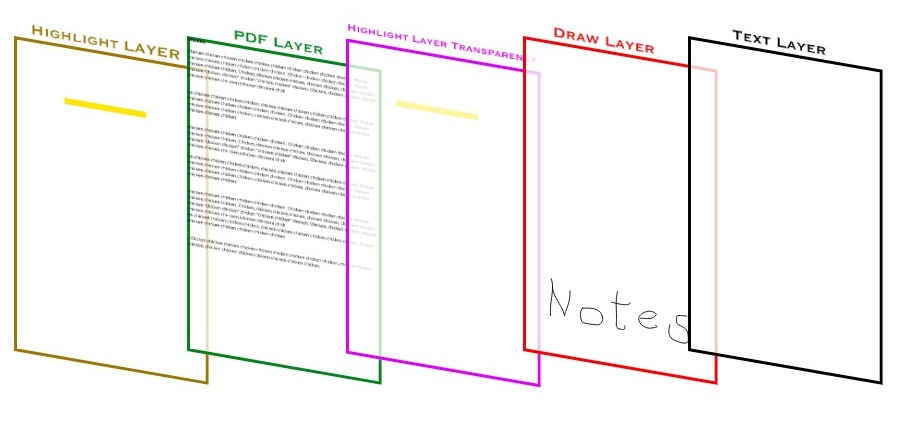
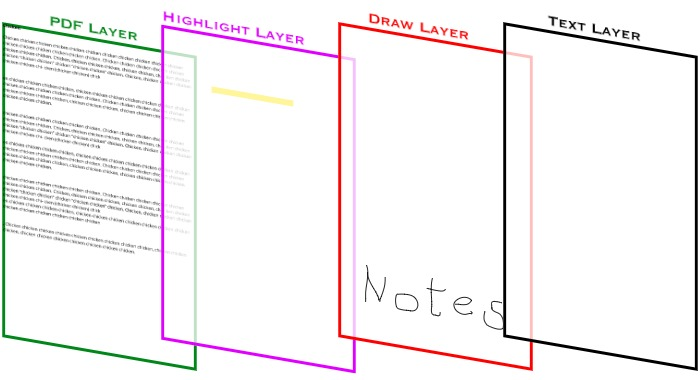
Update documentation

Changed region(s): [[0.0, 0.0289, 1.0, 0.9842]]

diff --git a/docs/development-guide.md b/docs/development-guide.md
@@ -3,6 +3,7 @@
 **Authors**
 
 Nicolas Märchy
+Nicolas Schäfli
 
 **Version 1.0.0**
 
@@ -42,11 +43,7 @@ rendered PDF page, so it won't cover the text.
 Is the actual PDF page rendered as svg by PDF.js.
 
 **HIGHLIGHT LAYER TRANSPARENCY**<br>
-Is the same as the *HIGHLIGHT Layer* but with less opacity (about 40%). This layer
-is required to highlight text which is not on a white background. With only
-the *HIGHLIGHT LAYER*, the highlight would not be visible at all, because of the
-non-transparent background of the *PDF LAYER*. The transparency is required
-to not cover the *PDF LAYER* completely.
+This layer contains any highlighting with an opacity of (about 40%).
 
 **DRAW LAYER**<br>
 The layer contains all drawings made by a user.

diff --git a/docs/reference-documentation.md b/docs/reference-documentation.md
@@ -3,6 +3,7 @@
 **Authors**
 
 Nicolas Märchy
+Nicolas Schäfli
 
 **Version 1.0.0**
 
@@ -281,7 +282,7 @@ pdf.toolbox.freehand.stateChange
 **Limitations:**
 
 * The Freehand tool can **not** draw over multiple PDF pages at once
-* The Freehand tool does **not** work with touchscreen
+* The Freehand tool touchscreen support is **experimental**.
 
 The Freehand tool as additional setters:
 
